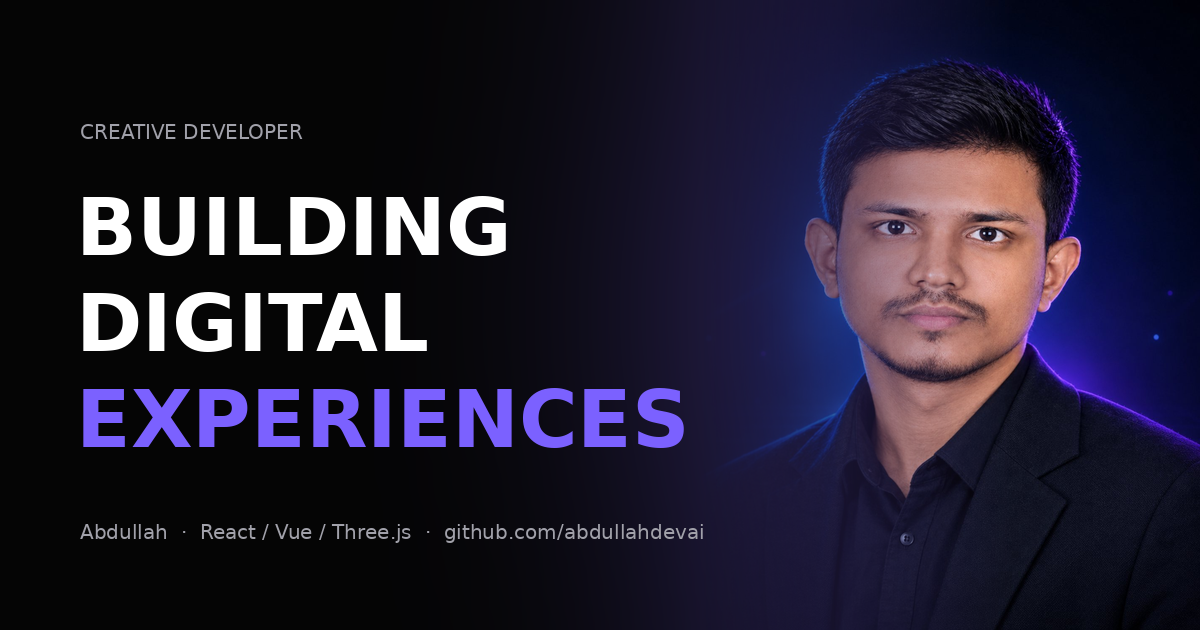
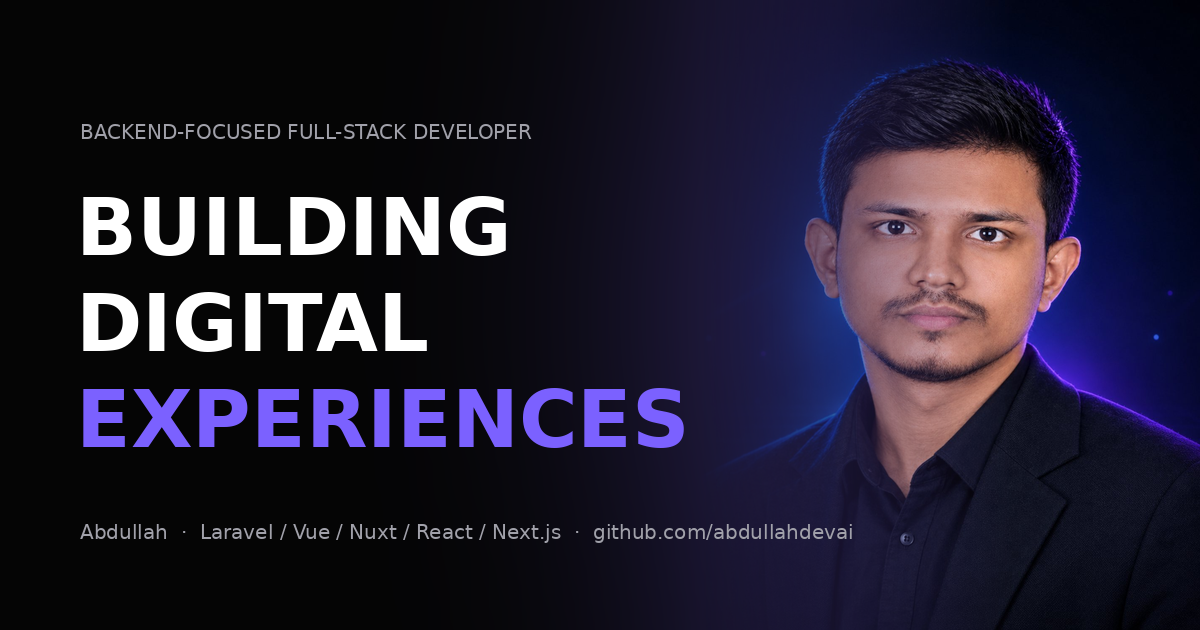
feat: update portfolio to reflect full-stack development focus, enhance descriptions, and improve content structure

Changed region(s): [[0.1542, 0.8143, 0.7092, 0.8746], [0.0617, 0.181, 0.4317, 0.2413]]

diff --git a/src/data/skills.ts b/src/data/skills.ts
@@ -1,16 +1,16 @@
 import {
-  Atom,
+  CodeXml,
+  Flame,
   Layers,
+  Mountain,
+  Atom,
+  Zap,
   Braces,
-  FileCode2,
-  Coffee,
-  Leaf,
+  Hexagon,
   Server,
-  Box,
+  Database,
   Wind,
   GitBranch,
-  Database,
-  Cylinder,
   type LucideIcon,
 } from 'lucide-react'
 
@@ -25,16 +25,16 @@ export interface Skill {
 }
 
 export const skills: Skill[] = [
-  { name: 'React', description: 'Component architecture, hooks, performance tuning and state management.', icon: Atom, position: { x: 18, y: 18 }, delay: 0 },
-  { name: 'Vue', description: 'Composition API, Pinia and Nuxt for content-driven applications.', icon: Layers, position: { x: 50, y: 8 }, delay: 0.6 },
-  { name: 'JavaScript', description: 'Modern ES features, tooling and the browser platform.', icon: Braces, position: { x: 82, y: 18 }, delay: 1.2 },
-  { name: 'TypeScript', description: 'Typed APIs, safer refactors and better developer experience.', icon: FileCode2, position: { x: 8, y: 48 }, delay: 1.8 },
-  { name: 'Java', description: 'Backend services, business logic and enterprise integrations.', icon: Coffee, position: { x: 92, y: 48 }, delay: 2.4 },
-  { name: 'Spring Boot', description: 'REST APIs, security and data access for Java backends.', icon: Leaf, position: { x: 18, y: 80 }, delay: 3 },
-  { name: 'Node.js', description: 'Lightweight services, tooling and real-time backends.', icon: Server, position: { x: 50, y: 92 }, delay: 3.6 },
-  { name: 'Three.js', description: '3D scenes, shaders and WebGL experiences on the web.', icon: Box, position: { x: 82, y: 80 }, delay: 4.2 },
-  { name: 'Tailwind', description: 'Design systems and rapid, consistent UI implementation.', icon: Wind, position: { x: 24, y: 32 }, delay: 0.9 },
-  { name: 'Git', description: 'Branching workflows, code review and CI pipelines.', icon: GitBranch, position: { x: 76, y: 32 }, delay: 2.1 },
-  { name: 'Oracle', description: 'Relational modelling, PL/SQL and reporting queries.', icon: Cylinder, position: { x: 24, y: 70 }, delay: 3.3 },
-  { name: 'PostgreSQL', description: 'Schema design, indexing and query optimisation.', icon: Database, position: { x: 76, y: 70 }, delay: 4.5 },
+  { name: 'PHP', description: 'Modern PHP 8 — typed, tested backends and long-running business logic.', icon: CodeXml, position: { x: 18, y: 18 }, delay: 0 },
+  { name: 'Laravel', description: 'REST APIs, queues, auth, Eloquent and admin panels — my primary backend framework.', icon: Flame, position: { x: 50, y: 8 }, delay: 0.6 },
+  { name: 'Vue', description: 'Composition API, Pinia and Inertia for interactive product UIs.', icon: Layers, position: { x: 82, y: 18 }, delay: 1.2 },
+  { name: 'Nuxt', description: 'SSR and content-driven frontends on top of Vue.', icon: Mountain, position: { x: 8, y: 48 }, delay: 1.8 },
+  { name: 'React', description: 'Component architecture, hooks and performance tuning.', icon: Atom, position: { x: 92, y: 48 }, delay: 2.4 },
+  { name: 'Next.js', description: 'Full-stack React with server components, routing and SEO built in.', icon: Zap, position: { x: 18, y: 80 }, delay: 3 },
+  { name: 'JavaScript', description: 'Modern ES features, tooling and the browser platform.', icon: Braces, position: { x: 50, y: 92 }, delay: 3.6 },
+  { name: 'TypeScript', description: 'Typed APIs, safer refactors and better developer experience.', icon: Hexagon, position: { x: 82, y: 80 }, delay: 4.2 },
+  { name: 'Node.js', description: 'Lightweight services, tooling and real-time backends.', icon: Server, position: { x: 24, y: 32 }, delay: 0.9 },
+  { name: 'MySQL', description: 'Schema design, indexing, migrations and query optimisation.', icon: Database, position: { x: 76, y: 32 }, delay: 2.1 },
+  { name: 'Tailwind', description: 'Design systems and rapid, consistent UI implementation.', icon: Wind, position: { x: 24, y: 70 }, delay: 3.3 },
+  { name: 'Git', description: 'Branching workflows, code review and CI pipelines.', icon: GitBranch, position: { x: 76, y: 70 }, delay: 4.5 },
 ]

diff --git a/src/data/projects.ts b/src/data/projects.ts
@@ -41,13 +41,13 @@ export const projects: Project[] = [
     category: 'Web Application',
     description:
       'A modern management platform with interactive dashboards, CRUD workflows and real-time analytics for operations teams.',
-    technologies: ['React', 'TypeScript', 'Tailwind', 'REST API'],
+    technologies: ['Laravel', 'Inertia', 'Vue', 'MySQL'],
     image: '/images/project-1.svg',
     liveUrl: '#',
     githubUrl: '#',
     featured: true,
     year: '2025',
-    role: 'Frontend Lead',
+    role: 'Full-Stack Developer',
     caseStudy: {
       overview:
         'An internal operations platform used daily by administrators to manage users, roles, content and reporting. The goal was a fast, keyboard-friendly interface that scales from a handful of records to hundreds of thousands.',
@@ -82,7 +82,7 @@ export const projects: Project[] = [
     category: 'Storefront & Checkout',
     description:
       'A high-conversion storefront with product discovery, a frictionless checkout and a merchant back office.',
-    technologies: ['Vue', 'JavaScript', 'Tailwind', 'Stripe'],
+    technologies: ['Laravel', 'Nuxt', 'MySQL', 'Stripe'],
     image: '/images/project-2.svg',
     liveUrl: '#',
     githubUrl: '#',
@@ -123,7 +123,7 @@ export const projects: Project[] = [
     category: 'Business Software',
     description:
       'A point-of-sale and inventory system built for speed at the counter, with offline support and multi-branch stock tracking.',
-    technologies: ['React', 'Node.js', 'PostgreSQL', 'PWA'],
+    technologies: ['Laravel', 'React', 'MySQL', 'PWA'],
     image: '/images/project-3.svg',
     liveUrl: '#',
     githubUrl: '#',
@@ -164,13 +164,13 @@ export const projects: Project[] = [
     category: 'Developer Tools',
     description:
       'A monitoring dashboard for engineering teams with deployment timelines, log search and service health at a glance.',
-    technologies: ['React', 'TypeScript', 'Three.js', 'WebSockets'],
+    technologies: ['Next.js', 'TypeScript', 'Node.js', 'WebSockets'],
     image: '/images/project-4.svg',
     liveUrl: '#',
     githubUrl: '#',
     featured: true,
     year: '2025',
-    role: 'Frontend Engineer',
+    role: 'Full-Stack Engineer',
     caseStudy: {
       overview:
         'A single pane of glass for engineering teams: deployments, service health, logs and alerts streamed in real time.',

diff --git a/src/data/experience.ts b/src/data/experience.ts
@@ -6,37 +6,38 @@ export interface ExperienceItem {
   tags: string[]
 }
 
+// Periods are placeholders — replace with the real dates.
 export const experience: ExperienceItem[] = [
   {
     id: 1,
     title: 'Frontend Development',
     period: '2021 — 2022',
     description:
-      'Built responsive, accessible interfaces for marketing sites and web apps. Established component libraries and introduced motion as part of the product language.',
-    tags: ['React', 'Vue', 'Tailwind', 'GSAP'],
+      'Built responsive, accessible interfaces with Vue and React for marketing sites and web apps. Introduced component libraries and motion as part of the product language.',
+    tags: ['Vue', 'React', 'Tailwind', 'GSAP'],
   },
   {
     id: 2,
-    title: 'Full Stack Development',
+    title: 'Backend & Full Stack Development',
     period: '2022 — 2023',
     description:
-      'Owned features end to end — from database schema and REST APIs to the UI that consumed them. Worked across Java, Spring Boot and Node.js services.',
-    tags: ['Java', 'Spring Boot', 'Node.js', 'PostgreSQL'],
+      'Owned features end to end — database schema, Laravel REST APIs, queues and auth, plus the Vue/Nuxt and React/Next.js frontends that consumed them.',
+    tags: ['PHP', 'Laravel', 'MySQL', 'Nuxt', 'Next.js'],
   },
   {
     id: 3,
     title: 'Dashboard & Admin Systems',
     period: '2023 — 2024',
     description:
-      'Specialised in data-heavy admin panels and analytics dashboards: virtualised tables, role-based access and real-time updates at scale.',
-    tags: ['React', 'TypeScript', 'Charts', 'WebSockets'],
+      'Specialised in data-heavy admin panels and analytics dashboards on Laravel with Blade and Inertia + Vue: role-based access, reporting, exports and real-time updates at scale.',
+    tags: ['Laravel', 'Inertia', 'Vue', 'Redis'],
   },
   {
     id: 4,
     title: 'Freelance / Client Projects',
     period: '2024 — Present',
     description:
-      'Partnering with startups and agencies on storefronts, SaaS products and interactive experiences — from concept to launch.',
-    tags: ['Product', 'E-Commerce', 'Three.js', 'Consulting'],
+      'Partnering with startups and agencies on storefronts, SaaS products and interactive experiences — from API design to launch.',
+    tags: ['Laravel', 'React', 'Next.js', 'Consulting'],
   },
 ]

diff --git a/src/data/services.ts b/src/data/services.ts
@@ -10,10 +10,10 @@ export interface Service {
 }
 
 export const services: Service[] = [
-  { id: 1, title: 'Web Development', description: 'Fast, maintainable websites and web apps built with modern tooling and a performance budget from day one.', icon: Globe, hue: 250 },
-  { id: 2, title: 'Frontend Development', description: 'Component-driven React and Vue interfaces with clean state management, motion and accessibility built in.', icon: LayoutTemplate, hue: 265 },
-  { id: 3, title: 'Admin Dashboard Development', description: 'Data-heavy admin panels: tables, filters, permissions, charts and workflows that teams use every day.', icon: PanelsTopLeft, hue: 235 },
-  { id: 4, title: 'E-Commerce Development', description: 'Storefronts and checkouts optimised for conversion, with merchant tools that keep operations simple.', icon: ShoppingBag, hue: 280 },
+  { id: 1, title: 'Web Development', description: 'Complete web applications on Laravel with Vue, Nuxt, React or Next.js frontends — built with a performance budget from day one.', icon: Globe, hue: 250 },
+  { id: 2, title: 'Frontend Development', description: 'Component-driven Vue and React interfaces with clean state management, motion and accessibility built in.', icon: LayoutTemplate, hue: 265 },
+  { id: 3, title: 'Admin Dashboard Development', description: 'Data-heavy admin panels: tables, filters, roles and permissions, charts and workflows that teams use every day.', icon: PanelsTopLeft, hue: 235 },
+  { id: 4, title: 'E-Commerce Development', description: 'Storefronts and checkouts optimised for conversion, with Laravel back offices that keep operations simple.', icon: ShoppingBag, hue: 280 },
   { id: 5, title: 'UI Implementation', description: 'Pixel-accurate implementation of Figma designs, design systems and responsive layouts.', icon: PenTool, hue: 220 },
-  { id: 6, title: 'API Integration', description: 'Reliable integrations with REST and GraphQL APIs, payments, auth providers and third-party services.', icon: Plug, hue: 255 },
+  { id: 6, title: 'API Development & Integration', description: 'Laravel REST APIs, authentication, payments and reliable integrations with third-party services.', icon: Plug, hue: 255 },
 ]

diff --git a/src/data/about.ts b/src/data/about.ts
@@ -4,17 +4,22 @@ export const about = {
     jpg: '/images/portrait-1200.jpg',
     smallWebp: '/images/portrait-640.webp',
     smallJpg: '/images/portrait-640.jpg',
-    alt: 'Portrait of Abdullah, creative developer, in a dark blazer against a blue-violet background',
+    alt: 'Portrait of Abdullah, full-stack developer, in a dark blazer against a blue-violet background',
   },
-  statement: 'I build interfaces where design, technology and motion come together.',
+  statementLines: ['I build products where', 'solid backends, clean interfaces', 'and motion come together.'],
   paragraphs: [
-    'I am a frontend-focused developer working across React, Vue and modern JavaScript. I care about the details that make software feel considered: fast loads, clear hierarchy, purposeful motion and interfaces that stay calm under heavy data.',
-    'Most of my work lives in dashboards, admin systems and customer-facing web applications — connecting well-designed UI to real APIs and shipping products people rely on every day.',
+    'I am a backend-focused full-stack developer. Most of my work starts in PHP and Laravel — designing data models, REST APIs, queues and admin systems — and carries through to the interfaces people actually use, built with Vue, Nuxt, React and Next.js.',
+    'I care about the details that make software feel considered: fast responses, clear hierarchy, purposeful motion and interfaces that stay calm under heavy data. From dashboards and e-commerce to customer-facing web apps, I ship products people rely on every day.',
   ],
-  rotatingTechnologies: ['React', 'Vue', 'JavaScript', 'TypeScript', 'Java', 'Spring Boot', 'Node.js', 'Three.js'],
+  rotatingTechnologies: ['Laravel', 'PHP', 'Vue', 'Nuxt', 'React', 'Next.js', 'MySQL', 'TypeScript'],
   facts: [
-    { label: 'Focus', value: 'Frontend & Product' },
+    { label: 'Focus', value: 'Backend & Full-Stack' },
     { label: 'Based in', value: 'Dhaka, BD' },
     { label: 'Working with', value: 'Startups & Agencies' },
   ],
+  education: {
+    degree: 'B.Sc. in Computer Science & Engineering',
+    institution: 'Presidency University',
+    location: 'Dhaka, Bangladesh',
+  },
 }

diff --git a/index.html b/index.html
@@ -6,18 +6,18 @@
     <meta name="theme-color" content="#050505" />
     <link rel="icon" type="image/svg+xml" href="/favicon.svg" />
 
-    <title>Abdullah — Creative Developer</title>
+    <title>Abdullah — Full-Stack Developer</title>
     <meta
       name="description"
-      content="Abdullah is a creative developer designing and building modern, interactive web applications with a strong focus on motion, performance and user experience."
+      content="Abdullah is a backend-focused full-stack developer building modern web applications with PHP, Laravel, Vue, Nuxt, React and Next.js — with a strong focus on performance and user experience."
     />
     <meta name="author" content="Abdullah" />
 
     <meta property="og:type" content="website" />
-    <meta property="og:title" content="Abdullah — Creative Developer" />
+    <meta property="og:title" content="Abdullah — Full-Stack Developer" />
     <meta
       property="og:description"
-      content="Building digital experiences. Modern web applications with a strong focus on interaction, performance and user experience."
+      content="Building digital experiences — Laravel backends with Vue, Nuxt, React and Next.js frontends."
     />
     <meta property="og:image" content="/og-image.png" />
     <meta property="og:image:width" content="1200" />
@@ -25,7 +25,7 @@
     <meta name="twitter:image" content="/og-image.png" />
     <meta property="og:url" content="https://github.com/abdullahdevai" />
     <meta name="twitter:card" content="summary_large_image" />
-    <meta name="twitter:title" content="Abdullah — Creative Developer" />
+    <meta name="twitter:title" content="Abdullah — Full-Stack Developer" />
     <meta name="twitter:description" content="Building digital experiences." />
 
     <link rel="preconnect" href="https://fonts.googleapis.com" />

diff --git a/src/components/About.tsx b/src/components/About.tsx
@@ -8,8 +8,7 @@ import Reveal from './ui/Reveal'
 import RevealLines from './ui/RevealLines'
 import TechPanel from './TechPanel'
 import Portrait from './Portrait'
-
-const STATEMENT_LINES = ['I build interfaces', 'where design, technology', 'and motion come together.']
+import { GraduationCap } from 'lucide-react'
 
 export default function About() {
   const root = useRef<HTMLElement>(null)
@@ -54,7 +53,7 @@ export default function About() {
         </Reveal>
 
         <div className="mt-12">
-          <RevealLines as="p" lines={STATEMENT_LINES} className="text-statement max-w-4xl" stagger={0.12} />
+          <RevealLines as="p" lines={about.statementLines} className="text-statement max-w-4xl" stagger={0.12} />
         </div>
 
         <div className="mt-16 grid gap-12 lg:mt-24 lg:grid-cols-12 lg:gap-8">
@@ -91,6 +90,21 @@ export default function About() {
                   </div>
                 ))}
               </dl>
+            </Reveal>
+
+            <Reveal delay={0.3} className="mt-10">
+              <div className="flex items-start gap-4 border-t border-white/10 pt-8">
+                <span className="flex h-11 w-11 shrink-0 items-center justify-center rounded-full border border-white/10 text-accent">
+                  <GraduationCap aria-hidden="true" className="h-4 w-4" />
+                </span>
+                <div>
+                  <span className="text-label">Education</span>
+                  <p className="mt-2 font-display text-lg font-medium">{about.education.degree}</p>
+                  <p className="mt-1 text-sm text-muted">
+                    {about.education.institution} — {about.education.location}
+                  </p>
+                </div>
+              </div>
             </Reveal>
           </div>
         </div>

diff --git a/src/components/Hero.tsx b/src/components/Hero.tsx
@@ -94,7 +94,7 @@ export default function Hero() {
         <div className="max-w-3xl pt-[42svh] md:pt-0 lg:max-w-4xl">
           <p data-hero-label className="text-label mb-8 flex items-center gap-3">
             <span className="h-1.5 w-1.5 rounded-full bg-accent" aria-hidden="true" />
-            Creative Developer
+            Backend-focused Full-Stack Developer
           </p>
 
           <h1 className="text-display">
@@ -106,8 +106,8 @@ export default function Hero() {
           </h1>
 
           <p data-hero-desc className="mt-8 max-w-md text-base leading-relaxed text-muted sm:text-lg">
-            I design and build modern web applications with a strong focus on interaction, performance and user
-            experience.
+            I design and build modern web applications — from Laravel APIs to Vue, Nuxt, React and Next.js frontends —
+            with a strong focus on performance and user experience.
           </p>
 
           <div className="mt-10 flex flex-wrap items-center gap-3 sm:gap-4">

diff --git a/src/data/site.ts b/src/data/site.ts
@@ -7,7 +7,7 @@ export type IconComponent = ComponentType<{ className?: string; 'aria-hidden'?: 
 export const site = {
   initials: 'AB',
   name: 'Abdullah',
-  role: 'Creative Developer',
+  role: 'Full-Stack Developer',
   email: 'developerabweb@gmail.com',
   location: 'Dhaka, Bangladesh',
   timezone: 'Asia/Dhaka',
@@ -34,10 +34,10 @@ export interface SocialLink {
   icon: IconComponent
 }
 
-// LinkedIn and Upwork are still placeholders — swap for the real profiles.
+// Upwork is still a placeholder — swap for the real profile or remove it.
 export const socialLinks: SocialLink[] = [
   { label: 'Email', href: `mailto:${site.email}`, icon: Mail },
   { label: 'GitHub', href: 'https://github.com/abdullahdevai', icon: GithubIcon },
-  { label: 'LinkedIn', href: 'https://linkedin.com/in/username', icon: LinkedinIcon },
+  { label: 'LinkedIn', href: 'https://www.linkedin.com/in/abdullahai', icon: LinkedinIcon },
   { label: 'Upwork', href: 'https://upwork.com/freelancers/username', icon: Briefcase },
 ]

diff --git a/README.md b/README.md
@@ -1,4 +1,4 @@
-# Abdullah — Creative Developer Portfolio
+# Abdullah — Full-Stack Developer Portfolio
 
 A premium, interactive 3D developer portfolio built with React + Vite.
 
@@ -39,7 +39,7 @@ All copy and content lives in `src/data/` — components never hardcode it.
 Project images are placeholder SVGs in `public/images/`. Replace them with real
 screenshots (e.g. `project-1.webp`) and update the `image` / `gallery` paths in
 `src/data/projects.ts`. Set `og:url` in `index.html` to the deployed site URL once it's live.
-LinkedIn and Upwork links in `src/data/site.ts` are still placeholders.
+The Upwork link in `src/data/site.ts` is still a placeholder.
 
 ## Structure
 
